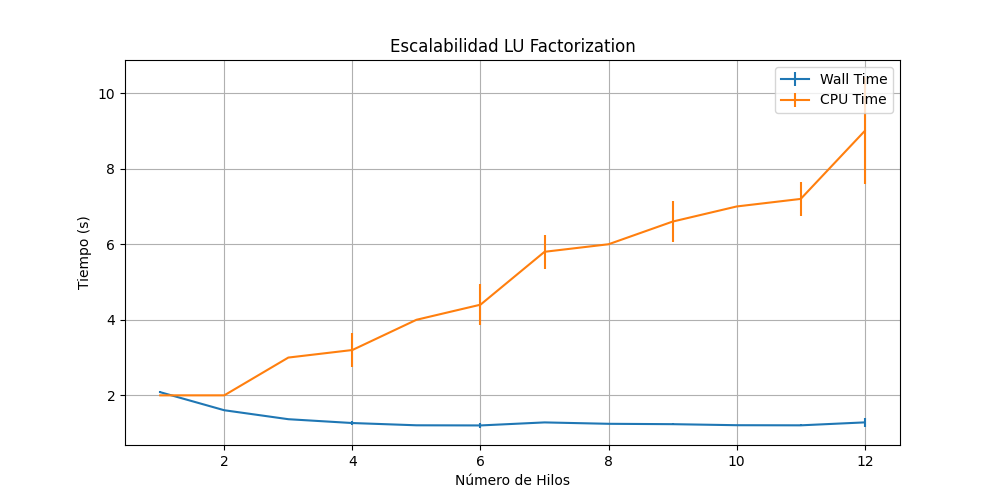
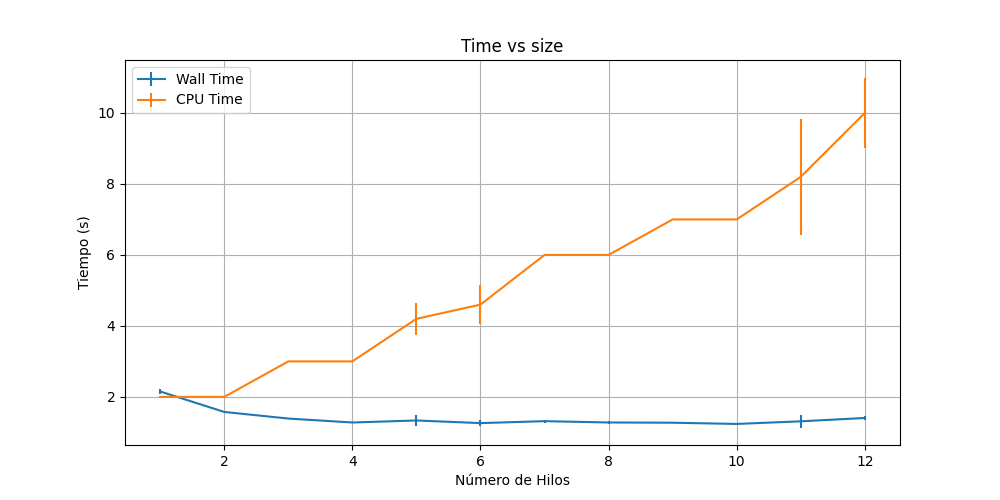
Actualización 2025-06-20

diff --git a/2025-06-06_MatrixOps/lu.cpp b/2025-06-06_MatrixOps/lu.cpp
@@ -1,0 +1,68 @@
+#include <iostream>
+#include <eigen3/Eigen/Dense>
+#include <chrono>
+#include <ctime>
+
+
+void stats(const int size, const int reps, // input parameters
+               double & mean_wtime, double & sigma_wtime, // output
+               double & mean_ctime, double & sigma_ctime); // output
+
+int main(int argc, char ** argv)
+{
+    const int M = atoi(argv[1]); // Matrix size
+    const int R = atoi(argv[2]); // Repetitions
+
+    double mean_wtime, sigma_wtime;
+    double mean_ctime, sigma_ctime;
+    stats(M, R, mean_wtime, sigma_wtime, mean_ctime, sigma_ctime);
+    std::cout << M
+                << "\t" << mean_wtime << "\t" << sigma_wtime
+                << "\t" << mean_ctime << "\t" << sigma_ctime
+                << std::endl;
+        
+    return 0;
+}
+
+void stats(const int size, const int reps, // input parameters
+               double & mean_wtime, double & sigma_wtime, // output
+               double & mean_ctime, double & sigma_ctime) // output
+{
+    // definir variables para sumar los tiempos
+    double suma_wtime = 0.0; 
+    double suma_wtime2 = 0.0;
+    double suma_ctime = 0.0; 
+    double suma_ctime2 = 0.0;
+
+    // llamar/copiar codigo reps veces a solvesystem y medir su tiempo
+    for (int ii = 0; ii < reps; ++ii) {
+        srand(ii+1);
+        Eigen::MatrixXd A = Eigen::MatrixXd::Random(size, size);
+        Eigen::MatrixXd b = Eigen::MatrixXd::Random(size, 1);
+        // cronometro para wtime y para cpu time
+        auto wstart{std::chrono::steady_clock::now()};
+        std::clock_t c_start = std::clock();
+        Eigen::MatrixXd x = A.partialPivLu().solve(b);
+        std::clock_t c_end = std::clock();
+        auto wend{std::chrono::steady_clock::now()};
+        
+        // anhadir a suma_wtime, suma_wtime2...
+        std::chrono::duration<double> elapsed_seconds{wend - wstart};
+        double aux = elapsed_seconds.count();
+        suma_wtime += aux;
+        suma_wtime2 += aux*aux;
+        aux = double(c_end - c_start) / CLOCKS_PER_SEC;
+        suma_ctime += aux;
+        suma_ctime2 += aux*aux;
+        
+        // force matrix use
+        std::cerr << x(0, 0) << "\n";
+    }
+
+
+    // calcular las estadisticas y retornar/guardar sus valores 
+    mean_wtime = suma_wtime/reps;
+    sigma_wtime = std::sqrt(reps*(suma_wtime2/reps - mean_wtime*mean_wtime)/(reps-1));
+    mean_ctime = suma_ctime/reps; 
+    sigma_ctime = std::sqrt(reps*(suma_ctime2/reps - mean_ctime*mean_ctime)/(reps-1));
+}

diff --git a/2025-06-20_IntroHPC/mpi.c b/2025-06-20_IntroHPC/mpi.c
@@ -1,0 +1,28 @@
+#include <mpi.h>
+#include <iostream>
+
+int main(int argc, char** argv)
+{
+    // Initialize the MPI environment
+    MPI_Init(&argc, &argv);
+
+    // Get the number of processes
+    int np;
+    MPI_Comm_size(MPI_COMM_WORLD, &np);
+
+    // Get the rank of the process
+    int pid;
+    MPI_Comm_rank(MPI_COMM_WORLD, &pid);
+
+    // Get the name of the processor
+    char processor_name[MPI_MAX_PROCESSOR_NAME];
+    int name_len;
+    MPI_Get_processor_name(processor_name, &name_len);
+
+    // Print off a hello world message
+    printf("Hello world from processor %s, rank %d out of %d processes\n",
+           processor_name, pid, np);
+
+    // Finalize the MPI environment.
+    MPI_Finalize();
+}

diff --git a/2025-06-20_IntroHPC/mpi_send-recv.cpp b/2025-06-20_IntroHPC/mpi_send-recv.cpp
@@ -1,0 +1,16 @@
+// Find out rank, size
+int world_rank;
+MPI_Comm_rank(MPI_COMM_WORLD, &world_rank);
+int world_size;
+MPI_Comm_size(MPI_COMM_WORLD, &world_size);
+
+int number;
+if (world_rank == 0) {
+    number = -1;
+    MPI_Send(&number, 1, MPI_INT, 1, 0, MPI_COMM_WORLD);
+} else if (world_rank == 1) {
+    MPI_Recv(&number, 1, MPI_INT, 0, 0, MPI_COMM_WORLD,
+             MPI_STATUS_IGNORE);
+    printf("Process 1 received number %d from process 0\n",
+           number);
+}

diff --git a/2025-06-04_MatrizOps/grap-lutime.py b/2025-06-04_MatrizOps/grap-lutime.py
@@ -7,7 +7,7 @@ plt.errorbar(df['Threads'], df['Mean_WTime(s)'], yerr=df['Sigma_WTime'], label='
 plt.errorbar(df['Threads'], df['Mean_CTime(s)'], yerr=df['Sigma_CTime'], label='CPU Time')
 plt.xlabel('Número de Hilos')
 plt.ylabel('Tiempo (s)')
-plt.title('Escalabilidad LU Factorization')
+plt.title('Time vs size')
 plt.legend()
 plt.grid(True)
 plt.savefig('scaling_plot.png')

diff --git a/2025-06-20_IntroHPC/openmp.cpp b/2025-06-20_IntroHPC/openmp.cpp
@@ -1,0 +1,15 @@
+#include <iostream>
+#include <omp.h>
+
+int main(int argc, char *argv[]) {
+  std::cout << "BEFORE\n";
+#pragma omp parallel
+  {
+    int tid = omp_get_thread_num();
+    int nth = omp_get_num_threads();
+    std::cout << "Hola mundo, desde el thread " << tid << ", from " << nth << std::endl;
+  }
+  std::cout << "AFTER\n";
+
+  return 0;
+}

diff --git a/2025-06-06_MatrixOps/lu_teach.cpp b/2025-06-06_MatrixOps/lu_teach.cpp
@@ -1,0 +1,3 @@
+#include <iostream>
+#include <eigen3/Eigen/Dense>   //Libreria de Algebra Linea
+#include <chrono> 

diff --git a/2025-06-13_IntroHPC/Notas_2025-06-13.md b/2025-06-13_IntroHPC/Notas_2025-06-13.md
@@ -1,0 +1,12 @@
+operaciones de punto flotante
+Megaflots/time
+sles linux?
+cluster UNAL
+spack? HPC
+GNUPLOT
+
+OPM_NUM_THREADS=2 //COntrolar nímero de hilos
+
+Las variables no solo tiene nopmbre y tipo sino visibilidada
+> g++ -std_c++17 -fopenmp -g - fsanitize=undefined, th
+> g++ -std=c++17 -fopenmp -g - fsanitize=undefined, thread openmp.cpp

diff --git a/2025-06-04_MatrizOps/Notas_2025-06-04.md b/2025-06-04_MatrizOps/Notas_2025-06-04.md
@@ -1,5 +1,5 @@
 ## Comando para correri código (más que corra en varios nucleos)
-    g++ -std=c++17 -03 -fsanitize==underfined,leak,address programa.cpp
+    g++ -std=c++17 -O3 -fsanitize=undefined,leak,address programa.cpp
 ## Comando para número de núcleos
     OMP_NUMTHREADS=1 /usr/bin/time ./lu.x 2000
 ## Tiempos de relog

diff --git a/2025-06-06_MatrixOps/Notas_2025-06-06.md b/2025-06-06_MatrixOps/Notas_2025-06-06.md
@@ -1,0 +1,2 @@
+srand ayuda a controlar la semilla
+    e.g | srand(ii+1)
